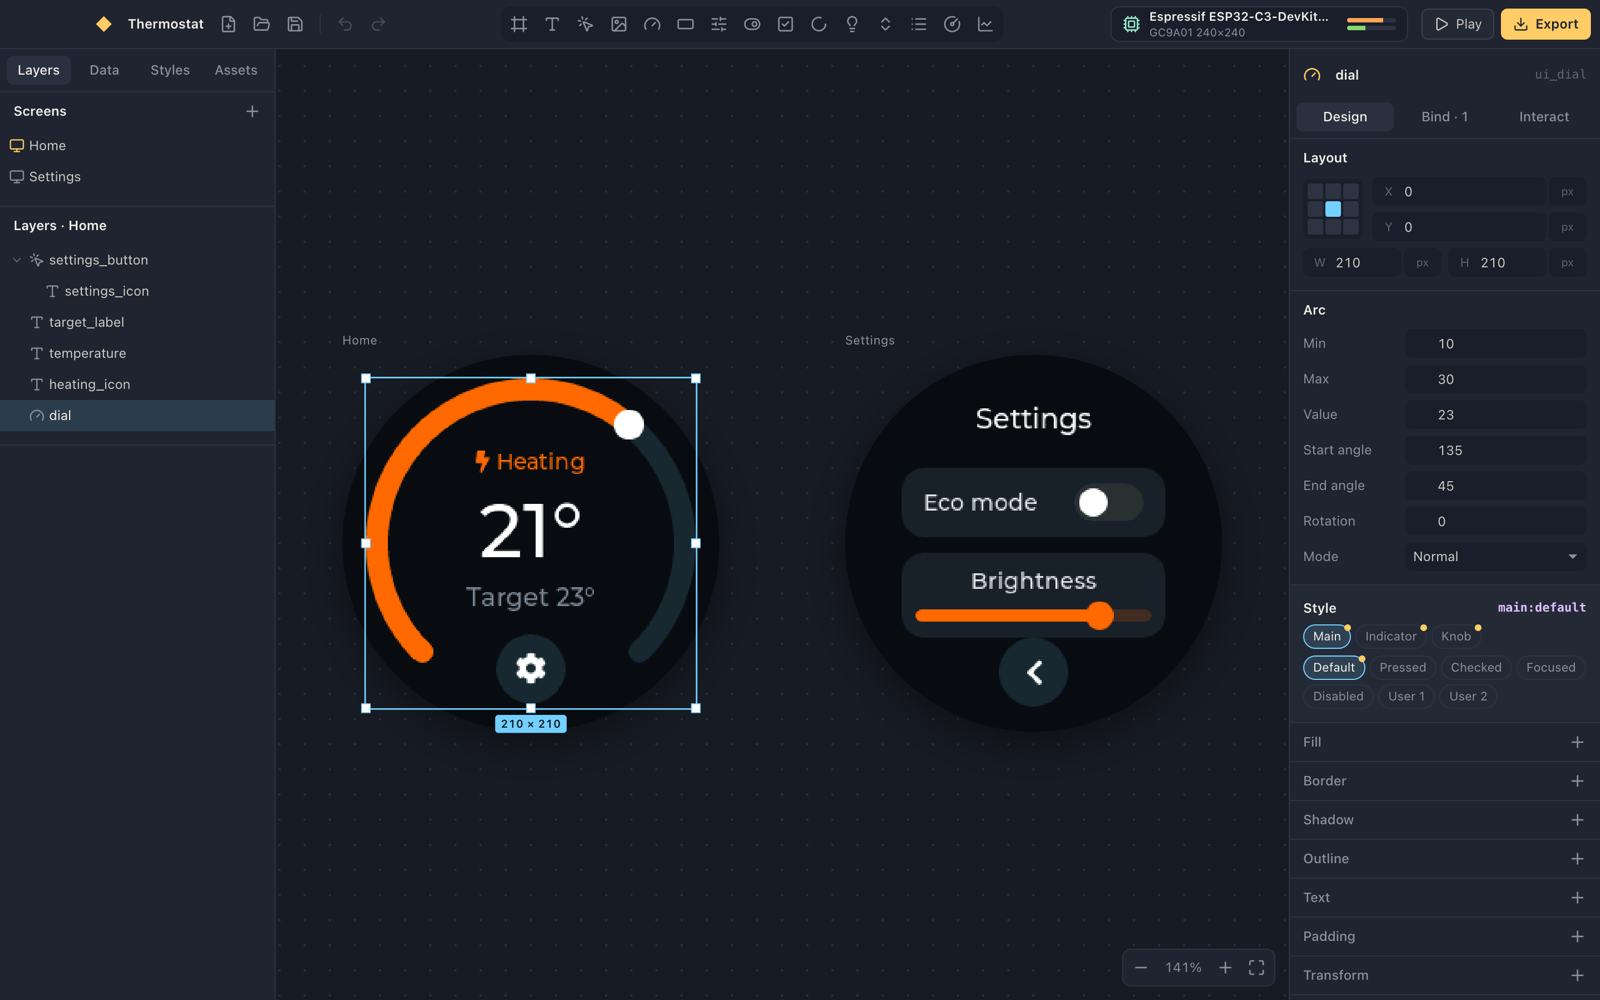
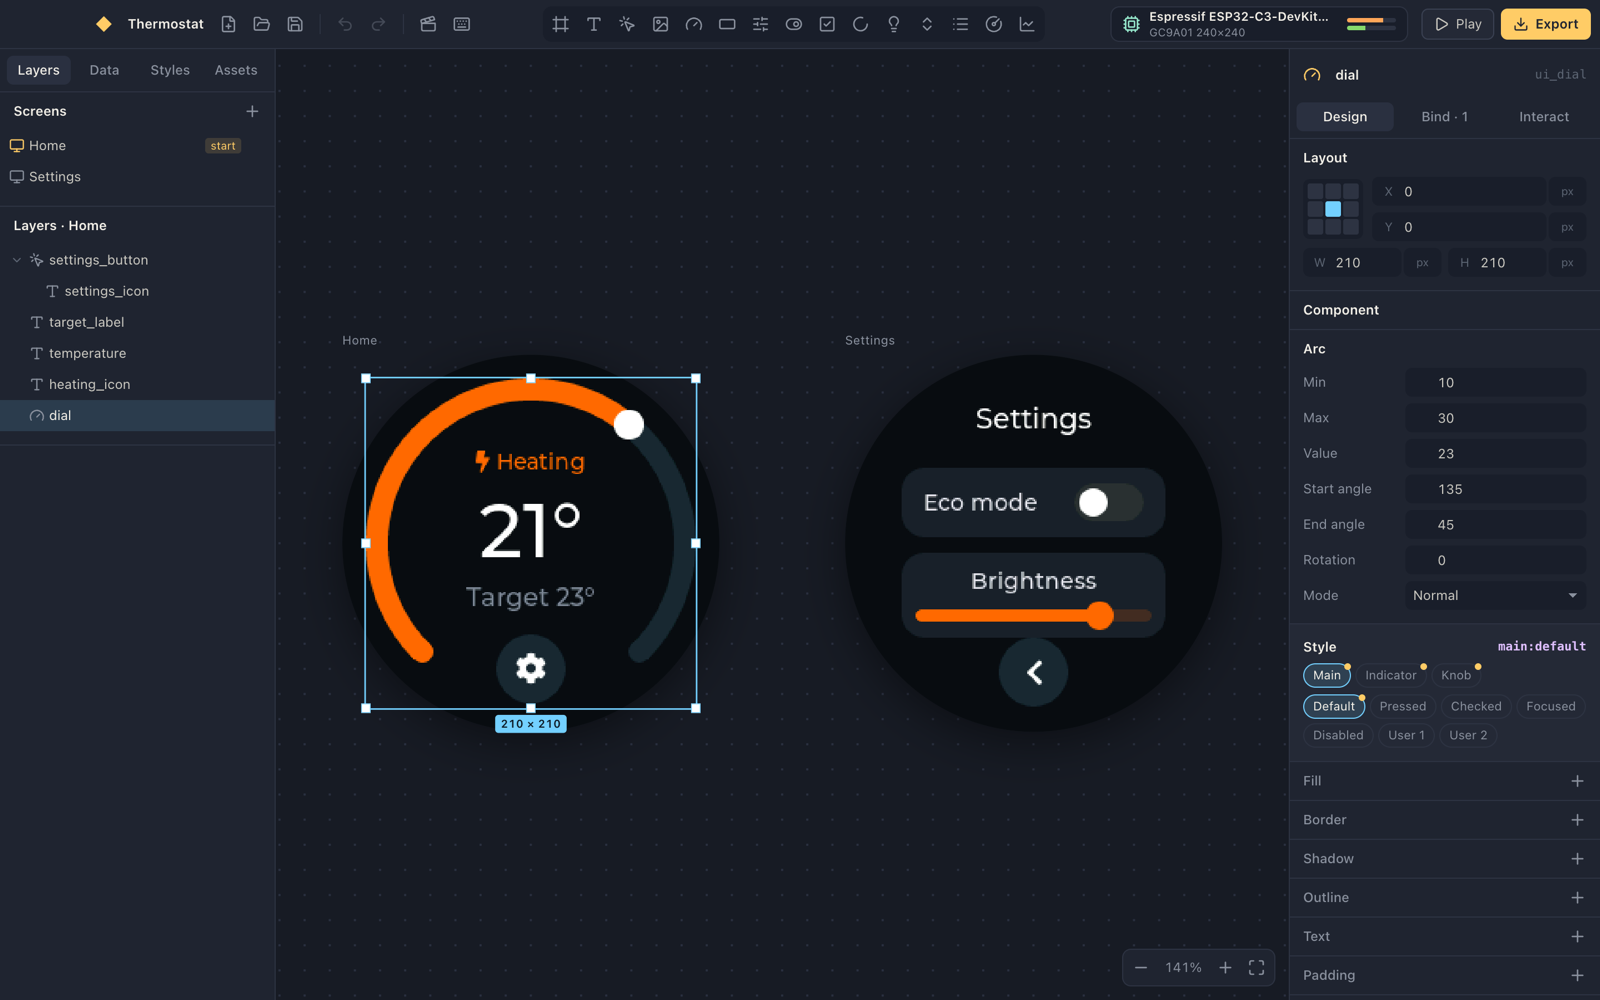
Test the Build button's Rust path; goals review; fresh screenshots
- pio_run gets an ignored-by-default test that builds a real export and
  checks the streamed log (KILN_TEST_PROJECT=... cargo test -- --ignored)
- Colour picks are one undo step (native change event ends the gesture)
- GOALS.md reviewed against the code and the checks; README screenshots

diff --git a/src/shared/ui/controls.tsx b/src/shared/ui/controls.tsx
@@ -190,19 +190,30 @@ export function ColorInput({ value, onChange, tokens = [] }: { value: string; on
   const token = value.startsWith("$") ? tokens.find(t => t.id === value.slice(1)) : undefined
   const hex = token?.value ?? (value.startsWith("#") ? value : "#000000")
   const picking = useRef(false)
+  const input = useRef<HTMLInputElement>(null)
+  const latest = useRef(onChange)
+  latest.current = onChange
+  // React's onChange fires on every tick of a colour picker; the native change event fires once,
+  // when it closes, which is where the gesture (and its single undo step) ends.
+  useEffect(() => {
+    const el = input.current!
+    const done = () => {
+      if (picking.current) latest.current(el.value, "end")
+      picking.current = false
+    }
+    el.addEventListener("change", done)
+    return () => el.removeEventListener("change", done)
+  }, [])
   return (
     <span className={s.color}>
       <label className={s.swatch} style={{ background: hex }}>
         <input
+          ref={input}
           type='color'
           value={hex}
-          onInput={e => {
-            onChange((e.target as HTMLInputElement).value, picking.current ? "move" : "start")
-            picking.current = true
-          }}
           onChange={e => {
-            if (picking.current) onChange(e.target.value, "end")
-            picking.current = false
+            latest.current(e.target.value, picking.current ? "move" : "start")
+            picking.current = true
           }}
         />
       </label>

diff --git a/src-tauri/src/pio.rs b/src-tauri/src/pio.rs
@@ -112,3 +112,31 @@ pub async fn pio_run(dir: String, upload: bool, port: Option<String>, on_event: 
     .await
     .map_err(|e| e.to_string())?
 }
+
+#[cfg(test)]
+mod tests {
+    use super::*;
+    use std::sync::{Arc, Mutex};
+    use tauri::ipc::InvokeResponseBody;
+
+    /// The Build button's whole Rust path: pio_run on a real export, with the log streamed back.
+    /// `KILN_TEST_PROJECT=/path/to/export cargo test -- --ignored`
+    #[test]
+    #[ignore = "needs PlatformIO and an exported project in KILN_TEST_PROJECT"]
+    fn builds_an_exported_project() {
+        let dir = std::env::var("KILN_TEST_PROJECT").expect("set KILN_TEST_PROJECT to an exported project");
+        let lines = Arc::new(Mutex::new(Vec::new()));
+        let sink = lines.clone();
+        let channel = Channel::new(move |body| {
+            if let InvokeResponseBody::Json(json) = body {
+                sink.lock().unwrap().push(json);
+            }
+            Ok(())
+        });
+        let code = tauri::async_runtime::block_on(pio_run(dir, false, None, channel)).unwrap();
+        let lines = lines.lock().unwrap();
+        assert_eq!(code, 0);
+        assert!(lines.iter().any(|l| l.contains("SUCCESS")), "no SUCCESS line in {} lines", lines.len());
+        assert!(lines.last().unwrap().contains(r#""kind":"done""#));
+    }
+}

diff --git a/GOALS.md b/GOALS.md
@@ -1,19 +1,32 @@
 # Goals
 
 What "done" means for Kiln, and where each goal stands. Flags: ✅ done · 🟡 partial · ⬜ not started · ➖ dropped.
-Each flag is set after a review against the code, not from memory.
+Each flag was set in a review against the code and the checks, not from memory. The review log is at the end.
 
 | # | Goal | Flag | Evidence |
 |---|------|------|----------|
-| G1 | **Stack and structure**: Tauri 2 shell, React + TypeScript + Vite + pnpm, zustand view-models (MVVM), feature-sliced folders checked by Steiger | 🟡 | `src/` layers, `steiger.config.ts`, `src-tauri/` |
-| G2 | **Real LVGL preview**: LVGL 9.6 compiled to wasm, rendering the canvas pixel-for-pixel at RGB565, with input | ✅ | `runtime/`, `src/shared/lvgl/runtime.ts`, `compile.test.ts` |
-| G3 | **Figma-style editing**: infinite canvas of screens, layers, insert, select/move/resize with smart guides, auto-layout reorder, undo/redo, copy/paste, groups, save/open | 🟡 | `widgets/canvas`, `widgets/layers-panel`, `features/node-actions` |
-| G4 | **Web-like styling**: CSS-like props per part and state (incl. state combos), flexbox auto layout, shared styles (classes), colour tokens, theme | 🟡 | `widgets/inspector`, `shared/ui/StyleProps.tsx` |
-| G5 | **Web-like animation**: CSS-style transitions on state changes; keyframe timelines with cubic-bezier easing, delay, repeat, alternate; autoplay or triggered | 🟡 | `compile.ts` timelines + transitions; timeline editor pending |
-| G6 | **Variables and bindings**: LVGL subjects bound to text, values, checked, visibility, state, mapped style props, chart history; simulated in Play | 🟡 | `BindTab.tsx`, `DataPanel.tsx`, `ProjectPlayer` |
-| G7 | **Interactions and Play**: events → navigate (screen transitions), set/step/toggle variables, play animations; Play mode runs it all on real LVGL | ✅ | `InteractTab.tsx`, `widgets/player` |
-| G8 | **PlatformIO hookups**: board catalog from PlatformIO board definitions, MCU pin maps and checks, display presets, variables fed from ADC/digital/sensors and driving pins, memory budget | 🟡 | `entities/board`, `DataPanel.tsx`; board dialog pending |
-| G9 | **LVGL export**: clean LVGL 9.6 C + a PlatformIO project for ESP32-C3 that compiles; never overwrites the user's code | ✅ | `features/export-firmware`, `firmware.test.ts` (clang), `pio run` on esp32-c3-devkitm-1 |
-| G10 | **Build and flash from the app**: run `pio run` / upload with streamed logs | 🟡 | `src-tauri/src/pio.rs`; export dialog pending |
-| G11 | **Images**: import PNG/JPG, convert to LVGL formats (RGB565 / RGB565A8 / ARGB8888) with optional Bayer dithering | ⬜ | |
-| G12 | **Quality**: tests for the compiler, runtime, export (compiled against LVGL), canvas maths and Rust file writes; typecheck and Steiger clean; README for Michael; this file reviewed | 🟡 | `pnpm check`, `cargo test` |
+| G1 | **Stack and structure**: Tauri 2 shell, React + TypeScript + Vite + pnpm, zustand view-models (MVVM), feature-sliced folders checked by Steiger | ✅ | `src/` layers, `steiger.config.ts` (clean), `src-tauri/`; every widget reads a `use*` view-model hook in its `model/` |
+| G2 | **Real LVGL preview**: LVGL 9.6 compiled to wasm, rendering the canvas pixel-for-pixel at RGB565, with input | ✅ | `runtime/`, `src/shared/lvgl/runtime.ts`; `compile.test.ts` taps a button on the wasm LVGL and watches the screen load |
+| G3 | **Figma-style editing**: infinite canvas of screens, layers, insert, select/move/resize with smart guides, auto-layout reorder, undo/redo, copy/paste, groups, in-place text, components, save/open | ✅ | `widgets/canvas`, `widgets/layers-panel`, `features/node-actions`, `features/components`, `features/project-file` |
+| G4 | **Web-like styling**: CSS-like props per part and state (incl. state combos), flexbox auto layout, shared styles (classes), colour tokens, theme | ✅ | `widgets/inspector`, `shared/ui/StyleProps.tsx`, `widgets/styles-panel` |
+| G5 | **Web-like animation**: CSS-style transitions on state changes; keyframe timelines with cubic-bezier easing, delay, repeat, alternate; autoplay or triggered | ✅ | `compile.ts` (timelines, mirrored alternate, transitions), `widgets/timeline`, `kiln_helpers.c` |
+| G6 | **Variables and bindings**: LVGL subjects bound to text, values, checked, visibility, state, mapped style props, chart history; simulated in Play | ✅ | `BindTab.tsx`, `DataPanel.tsx`, `ProjectPlayer`, kitchen-sink test |
+| G7 | **Interactions and Play**: events → navigate (screen transitions), set/step/toggle variables, play animations; Play runs it all on real LVGL | ✅ | `InteractTab.tsx`, `widgets/player` |
+| G8 | **PlatformIO hookups**: board catalog from PlatformIO's board definitions, MCU pin maps and checks, display presets, variables fed from ADC/digital/sensors and driving pins, memory budget | ✅ | `entities/board`, `widgets/board-dialog`, `DataPanel.tsx`; budget calibrated against a real build |
+| G9 | **LVGL export**: clean LVGL 9.6 C plus a PlatformIO project for ESP32-C3 that compiles; never overwrites the user's code | ✅ | `features/export-firmware`; clang checks fail on deprecated API; `pio run` on esp32-c3-devkitm-1: sample and kitchen sink both build with no warnings from generated code |
+| G10 | **Build and flash from the app**: run `pio run` / upload with streamed logs | 🟡 | `src-tauri/src/pio.rs`, `widgets/export-dialog`. The build path is tested end to end: `builds_an_exported_project` runs the real `pio_run` command on an export and checks the streamed log ends in SUCCESS. Upload is the same command with `-t upload` and hasn't met a board yet |
+| G11 | **Images**: import PNG/JPG, convert to LVGL formats (RGB565 / RGB565A8 / ARGB8888) with optional Bayer dithering | ✅ | `features/import-image` (tested), `widgets/assets-panel` |
+| G12 | **Quality**: tests for the compiler, runtime, export, canvas maths, image conversion, zip and Rust file writes; typecheck and Steiger clean; CI; README for Michael | ✅ | `pnpm check` (27 tests), `cargo test`, `.github/workflows/ci.yml` |
+
+## Not done, on purpose or not yet
+
+- **Real hardware.** Nothing has been flashed to a physical panel. The display config (inversion, red/blue, offsets) is all toggles, but expect to tune it once.
+- **Custom fonts.** Only LVGL's built-in Montserrat and Unscii sizes. TTF import via LVGL's TinyTTF (same renderer on the canvas and the board) is the natural next step.
+- **Multi-resolution projects.** One target display per project.
+- **Align/distribute and marquee selection.** Multi-select works for move, group and delete only.
+- **Animating inside instances.** Timelines target nodes; a track on a main component's child doesn't follow into its instances.
+
+## Review log
+
+- **Review 1, after the first milestone.** The `pio run` build surfaced LVGL 9.6 deprecations (`lv_subject_init_*`, `lv_obj_bind_*_if_*`, `lv_obj_add_flag`). The generated code moved to `lv_subject_create`, `lv_obj_set_hidden()` and friends, plus Kiln's own comparison binders, and the clang checks now treat deprecations as errors. Steiger caught an integration test reaching into another feature's internals; it moved to the `app` layer. The budget estimator was recalibrated against the real build (it had assumed the whole 4 MB chip instead of the 1.25 MB app partition).
+- **Review 2, final.** See the findings applied in the last commits.

diff --git a/README.md b/README.md
@@ -41,6 +41,10 @@ What you see is what flashes.
 - **Know if it fits.** A flash and RAM meter estimates the build against the board's real limits,
   read from PlatformIO's board definitions.
 
+| Components | Board, display and pins | Export |
+|---|---|---|
+| ![Components](docs/components.png) | ![Board dialog](docs/board.png) | ![Export](docs/export.png) |
+
 ## Getting started
 
 You need Node 22+, pnpm, and Rust (for the Tauri shell).
